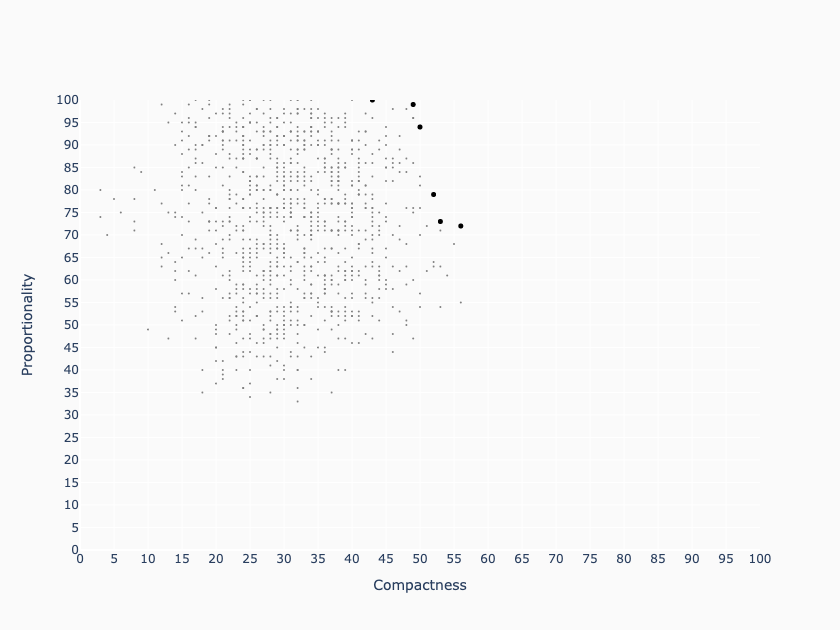
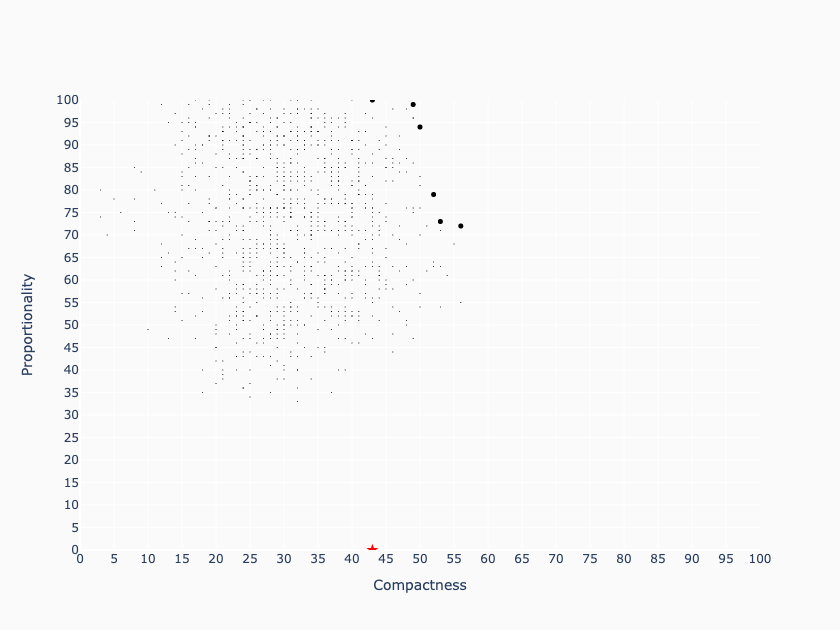
WIP

diff --git a/scripts/make_frontier_plots.py b/scripts/make_frontier_plots.py
@@ -8,6 +8,7 @@ For example:
 $ scripts/make_frontier_plots.py \
 --scores testdata/synthetic_ratings.csv \
 --frontier output/test_frontier.json \
+--focus testdata/map_scores.csv \
 --prefix test \
 --output output \
 --no-debug
@@ -47,6 +48,12 @@ def main() -> None:
 
     df: pd.DataFrame = scores_to_df(args.scores, fieldnames, fieldtypes)
 
+    # Read the focus map from a CSV file
+    focus_ratings: List[int] = list()
+    if args.focus:
+        focus_df: pd.DataFrame = scores_to_df(args.focus, fieldnames, fieldtypes)
+        focus_ratings = focus_df.iloc[0][ratings_dimensions].to_list()
+
     # Read the frontier from a JSON file
 
     data: Dict[str, Any] = read_json(args.frontier)
@@ -75,10 +82,21 @@ def main() -> None:
             "x": xvalues,
             "y": yvalues,
             "mode": "markers",
-            "marker_color": "gray",
-            "marker_size": 2,
+            "marker_color": "black",  # "gray",
+            "marker_size": 1,
         }
         scatter_traces.append(points_trace)
+
+        if args.focus:
+            focus_trace: Dict[str, Any] = {
+                "x": [focus_ratings[d2]],
+                "y": [focus_ratings[d1]],
+                "mode": "markers",
+                "marker_symbol": "star",
+                "marker_color": "red",
+                "marker_size": 9,
+            }
+            scatter_traces.append(focus_trace)
 
         fyvalues: List[int] = [f["ratings"][d1] for f in frontier]
         fxvalues: List[int] = [f["ratings"][d2] for f in frontier]
@@ -172,6 +190,11 @@ def parse_args():
         help="Frontier maps JSON file",
     )
     parser.add_argument(
+        "--focus",
+        type=str,
+        help="The flattened scores for a map to highlight",
+    )
+    parser.add_argument(
         "--prefix",
         type=str,
         help="The plot filename prefix",
@@ -200,6 +223,7 @@ def parse_args():
     debug_defaults: Dict[str, Any] = {
         "scores": "testdata/synthetic_ratings.csv",  # Only has map name & ratings
         "frontier": "output/test_frontier.json",
+        "focus": "testdata/map_scores.csv",
         "prefix": "test",
         "output": "output",
     }
